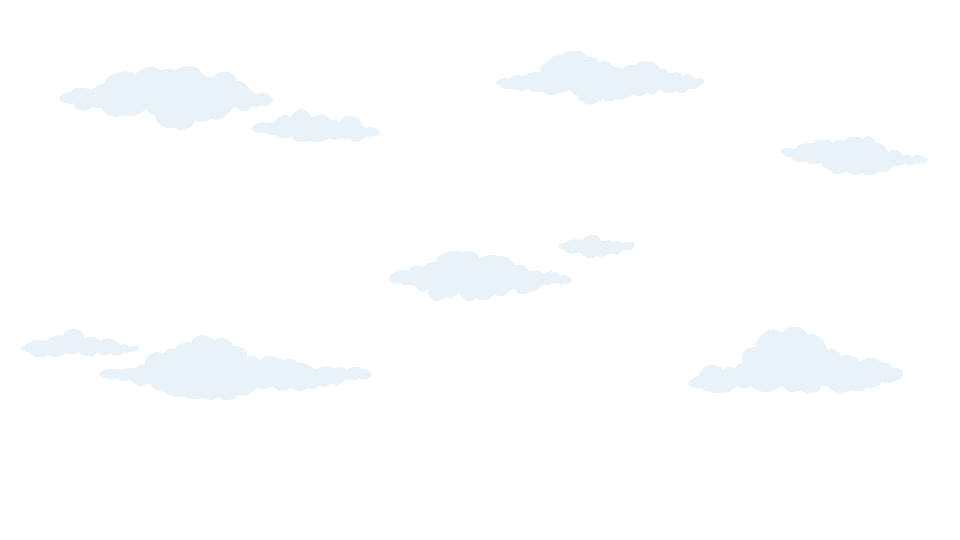
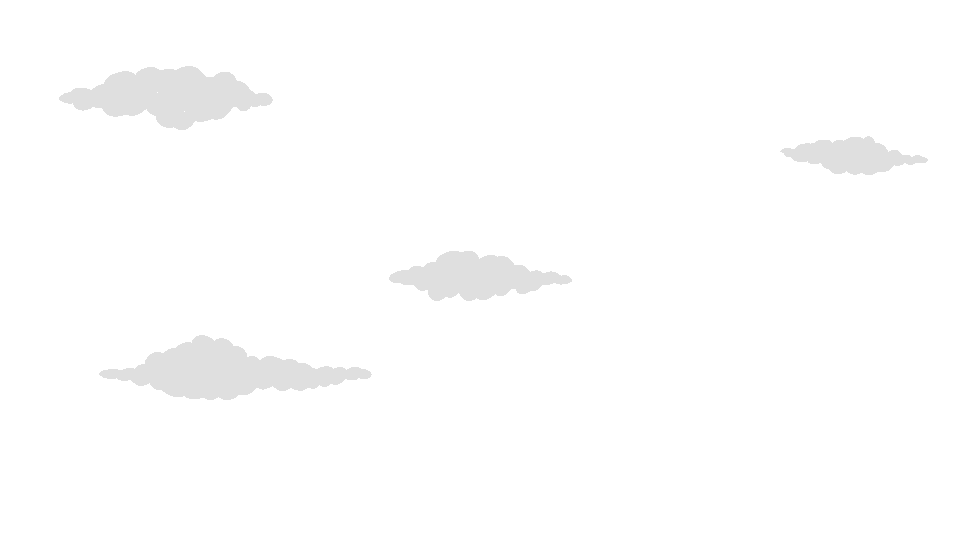
修改整体画风

diff --git a/src/scenes/playScene.js b/src/scenes/playScene.js
@@ -1,22 +1,22 @@
 import Phaser from 'phaser';
-import stone1 from '../assets/mapOne/objects/stones/1.png'
-import stone2 from '../assets/mapOne/objects/stones/2.png'
-import stone3 from '../assets/mapOne/objects/stones/3.png'
-import stone4 from '../assets/mapOne/objects/stones/4.png'
-import stone5 from '../assets/mapOne/objects/stones/5.png'
-import stone6 from '../assets/mapOne/objects/stones/6.png'
-import bushes1 from '../assets/mapOne/objects/bushes/1.png'
-import bushes2 from '../assets/mapOne/objects/bushes/2.png'
-import bushes3 from '../assets/mapOne/objects/bushes/3.png'
-import bushes4 from '../assets/mapOne/objects/bushes/4.png'
-import bushes5 from '../assets/mapOne/objects/bushes/5.png'
-import bushes6 from '../assets/mapOne/objects/bushes/6.png'
-import tree1 from '../assets/mapOne/objects/trees/1.png'
-import tree2 from '../assets/mapOne/objects/trees/2.png'
-import tree3 from '../assets/mapOne/objects/trees/3.png'
-import tree4 from '../assets/mapOne/objects/trees/4.png'
-import tree5 from '../assets/mapOne/objects/trees/5.png'
-import tree6 from '../assets/mapOne/objects/trees/6.png'
+import stone1 from '../assets/mapOne/objects/stones/1_gray.png'
+import stone2 from '../assets/mapOne/objects/stones/2_gray.png'
+import stone3 from '../assets/mapOne/objects/stones/3_gray.png'
+import stone4 from '../assets/mapOne/objects/stones/4_gray.png'
+import stone5 from '../assets/mapOne/objects/stones/5_gray.png'
+import stone6 from '../assets/mapOne/objects/stones/6_gray.png'
+import bushes1 from '../assets/mapOne/objects/bushes/1_gray.png'
+import bushes2 from '../assets/mapOne/objects/bushes/2_gray.png'
+import bushes3 from '../assets/mapOne/objects/bushes/3_gray.png'
+import bushes4 from '../assets/mapOne/objects/bushes/4_gray.png'
+import bushes5 from '../assets/mapOne/objects/bushes/5_gray.png'
+import bushes6 from '../assets/mapOne/objects/bushes/6_gray.png'
+import tree1 from '../assets/mapOne/objects/trees/1_gray.png'
+import tree2 from '../assets/mapOne/objects/trees/2_gray.png'
+import tree3 from '../assets/mapOne/objects/trees/3_gray.png'
+import tree4 from '../assets/mapOne/objects/trees/4_gray.png'
+import tree5 from '../assets/mapOne/objects/trees/5_gray.png'
+import tree6 from '../assets/mapOne/objects/trees/6_gray.png'
 import doorOpen from '../assets/mapOne/objects/doorOpen.png'
 import purpleArray from '../assets/mapOne/objects/purpleArray.png'
 import purpleDiamond from '../assets/mapOne/objects/purpleDiamond.png'
@@ -24,6 +24,13 @@ import zombie from '../assets/mapOne/objects/girl1.png'
 
 import knife1_1 from '../assets/weapons/knife1_1.png'
 import staff1_1 from '../assets/weapons/staff1_1.png'
+
+import grassPlatformLeft from "../assets/mapOne/tiles/left.png";
+import grassPlatformMiddle from "../assets/mapOne/tiles/mid.png";
+import grassPlatformRight from "../assets/mapOne/tiles/right.png";
+import sky from "../assets/mapOne/background/Background_gray1.png";
+import houseOne from "../assets/mapOne/objects/house/1_gray.png";
+import cloudSmall from '../assets/mapOne/background/coluds_small.png'
 
 //路面组
 var roadGroup;
@@ -133,6 +140,13 @@ export default class playScene extends Phaser.Scene
 
     preload ()
     {
+        //加载地板
+        this.load.image('sky',sky);
+        this.load.image('houseOne',houseOne);
+        this.load.image('grassPlatformLeft',grassPlatformLeft);
+        this.load.image('grassPlatformMiddle',grassPlatformMiddle);
+        this.load.image('grassPlatformRight',grassPlatformRight);
+        this.load.image('cloudSmall',cloudSmall);
         //加载石头
         this.load.image('stone1',stone1);
         this.load.image('stone2',stone2);
@@ -345,8 +359,8 @@ export default class playScene extends Phaser.Scene
      */
     createZombie() {
         var originX = 2000;
-        var zombieNums = 30;
-        var zombiesInterval = ((RoadLastXBase * RoadBaseSpacing) / zombieNums) / 3;
+        var zombieNums = 60;
+        var zombiesInterval = ((RoadLastXBase * Phaser.Math.Between(400,600)) / zombieNums) / 3;
         for (let i = 0; i < zombieNums; i++) {
             var x = Phaser.Math.Between(originX, originX + zombiesInterval);
             var zombie = zombies.create(x,500,'zombie').setScale(3).setSize(20,45).setDrag(2300,200);
@@ -357,6 +371,7 @@ export default class playScene extends Phaser.Scene
             // console.log(zombie)
             originX = originX + zombiesInterval;
         }
+        console.log('最后生成位置：' + originX)
     }
 
     /**
@@ -389,7 +404,7 @@ export default class playScene extends Phaser.Scene
             if (zombie.y > 1150) {
                 var purpleArray = purpleArrayGroup.getChildren()[Phaser.Math.Between(0,purpleArrayGroup.getLength() - 1)]
                 purpleArray.x = zombie.x;
-                purpleArray.y = 500;
+                purpleArray.y = 400;
                 zombie.y = 500;
                 purpleArray.anims.play('purpleArrayAnim',true)
                 // 监听动画播放完成事件
@@ -451,61 +466,72 @@ export default class playScene extends Phaser.Scene
         //基础X坐标
         RoadLastXBase = 0;
         //最后生成Y高度
-        RoadLastYBase = 1150;
+        RoadLastYBase = 1050;
         //地台高度差
         var platformHeightDifference = 100;
         //创建路面
-        roadGroup.create(RoadLastXBase,1150,'grassPlatformLeft').setSize(210,64).setOrigin(0,1).setScale(3.1).setOffset(40,-150)
+        roadGroup.create(RoadLastXBase,1050,'grassPlatformLeft').setSize(210,64).setOrigin(0,1).setScale(3.1).setOffset(40,-80)
         RoadLastXBase ++;
         for (RoadLastXBase; RoadLastXBase < 10; RoadLastXBase++) {
-            roadGroup.create(RoadLastXBase * RoadBaseSpacing,1150,'grassPlatformMiddle').setSize(210,64).setOrigin(0,1).setScale(3.1).setOffset(40,-150)
+            roadGroup.create(RoadLastXBase * RoadBaseSpacing,1050,'grassPlatformMiddle').setSize(210,64).setOrigin(0,1).setScale(3.1).setOffset(40,-80)
         }
-        roadGroup.create((RoadLastXBase) * RoadBaseSpacing,1150,'grassPlatformRight').setSize(210,64).setOrigin(0,1).setScale(3.1).setOffset(40,-150)
+        roadGroup.create((RoadLastXBase) * RoadBaseSpacing,1050,'grassPlatformRight').setSize(210,64).setOrigin(0,1).setScale(3.1).setOffset(40,-80)
         RoadLastXBase = RoadLastXBase + 1;
         for (let i = 1; i < 50; i++) {
             //随机Y轴值
             var y = 0;
             while ((RoadLastYBase - y) > platformHeightDifference) {
-                y = Phaser.Math.Between(500,1150);
+                y = Phaser.Math.Between(500,1050);
             }
             RoadLastYBase = y;
             //多长的路
             var howLong = Phaser.Math.Between(1,10);
-            roadGroup.create(RoadLastXBase * RoadBaseSpacing,y,'grassPlatformLeft').setSize(210,64).setOrigin(0,1).setScale(3.1).setOffset(40,-150)
+            roadGroup.create(RoadLastXBase * RoadBaseSpacing,y,'grassPlatformLeft').setSize(210,64).setOrigin(0,1).setScale(3.1).setOffset(40,-80)
             for (let j = RoadLastXBase + 1; j < howLong + RoadLastXBase; j++) {
-                roadGroup.create(j * RoadBaseSpacing,y,'grassPlatformMiddle').setSize(210,64).setOrigin(0,1).setScale(3.1).setOffset(40,-150)
+                roadGroup.create(j * RoadBaseSpacing,y,'grassPlatformMiddle').setSize(210,64).setOrigin(0,1).setScale(3.1).setOffset(40,-80)
             }
-            roadGroup.create((howLong + RoadLastXBase)* RoadBaseSpacing,y,'grassPlatformRight').setSize(210,64).setOrigin(0,1).setScale(3.1).setOffset(40,-150)
+            roadGroup.create((howLong + RoadLastXBase)* RoadBaseSpacing,y,'grassPlatformRight').setSize(210,64).setOrigin(0,1).setScale(3.1).setOffset(40,-80)
             RoadLastXBase = RoadLastXBase + howLong + 1;
+            //创建云朵
+            if (Phaser.Math.Between(0,1) === 0) {
+                var cloudName = 'cloudSmall';
+                var cloudY = Phaser.Math.Between(50,500);
+                var cloudScale = 2;
+                //创建树
+                sceneryObj.create(RoadLastXBase * (RoadBaseSpacing + 100 )
+                    ,cloudY
+                    ,cloudName)
+                    .setScale(cloudScale)
+            }
             //创建树
             if (howLong >= 2 && Phaser.Math.Between(0,1) === 0) {
                 var treesName ;
-                var treesY = RoadLastYBase - 240;
+                var treesY = RoadLastYBase - 180;
                 var treesScale = 6;
                 switch (Phaser.Math.Between(1,6)) {
                     case 1:
                         treesName = 'tree1';
-                        treesY = RoadLastYBase - 530;
+                        treesY = RoadLastYBase - 460;
                         treesScale = 3;break;
                     case 2:
                         treesName = 'tree2';
-                        treesY = RoadLastYBase - 490;
+                        treesY = RoadLastYBase - 420;
                         treesScale = 5;break;
                     case 3:
                         treesName = 'tree3';
-                        treesY = RoadLastYBase - 550;
+                        treesY = RoadLastYBase - 480;
                         treesScale = 6;break;
                     case 4:
                         treesName = 'tree4';
-                        treesY = RoadLastYBase - 540;
+                        treesY = RoadLastYBase - 470;
                         treesScale = 3;break;
                     case 5:
                         treesName = 'tree5'
-                        treesY = RoadLastYBase - 460
+                        treesY = RoadLastYBase - 390
                         treesScale = 4;break;
                     case 6:
                         treesName = 'tree6';
-                        treesY = RoadLastYBase - 460;
+                        treesY = RoadLastYBase - 390;
                         treesScale = 4
                         break;
                 }
@@ -531,30 +557,30 @@ export default class playScene extends Phaser.Scene
             //创建灌木丛
             if (howLong >= 2 && Phaser.Math.Between(0,1) === 0) {
                 var bushesName ;
-                var bushesY = RoadLastYBase - 240;
+                var bushesY = RoadLastYBase - 180;
                 var bushesScale = 6;
                 switch (Phaser.Math.Between(1,6)) {
                     case 1:
                         bushesName = 'bushes1';
-                        bushesY = RoadLastYBase - 270;break;
+                        bushesY = RoadLastYBase - 200;break;
                     case 2:
                         bushesName = 'bushes2';
-                        bushesY = RoadLastYBase - 230;
+                        bushesY = RoadLastYBase - 160;
                         bushesScale = 4;break;
                     case 3:
                         bushesName = 'bushes3';
-                        bushesY = RoadLastYBase - 205;
+                        bushesY = RoadLastYBase - 135;
                         bushesScale = 6;break;
                     case 4:
                         bushesName = 'bushes4';
-                        bushesY = RoadLastYBase - 275;
+                        bushesY = RoadLastYBase - 205;
                         bushesScale = 5;break;
                     case 5:
                         bushesName = 'bushes5'
-                        bushesY = RoadLastYBase - 310;break;
+                        bushesY = RoadLastYBase - 240;break;
                     case 6:
                         bushesName = 'bushes6';
-                        bushesY = RoadLastYBase - 250;
+                        bushesY = RoadLastYBase - 190;
                         break;
                 }
                 //差值
@@ -577,37 +603,37 @@ export default class playScene extends Phaser.Scene
             //生成房子背景
             if (howLong >= 6 && Phaser.Math.Between(0,1) === 0) {
                 sceneryObj.create(RoadLastXBase * RoadBaseSpacing - Phaser.Math.Between(2 * RoadBaseSpacing,5 * RoadBaseSpacing)
-                    ,y - 500
+                    ,y - 440
                     ,'houseOne')
                     .setScale(6)
             }
             //创建石头
             if (howLong >= 4 && Phaser.Math.Between(0,1) === 0) {
                 var stoneName ;
-                var stoneY = RoadLastYBase - 240;
+                var stoneY = RoadLastYBase - 180;
                 var stoneScale = 6;
                 switch (Phaser.Math.Between(1,6)) {
                     case 1:
                         stoneName = 'stone1';
-                        stoneY = RoadLastYBase - 258;break;
+                        stoneY = RoadLastYBase - 190;break;
                     case 2:
                         stoneName = 'stone2';
-                        stoneY = RoadLastYBase - 295;
+                        stoneY = RoadLastYBase - 225;
                         stoneScale = 4;break;
                     case 3:
                         stoneName = 'stone3';
-                        stoneY = RoadLastYBase - 240;
+                        stoneY = RoadLastYBase - 170;
                         stoneScale = 5;break;
                     case 4:
                         stoneName = 'stone4';
-                        stoneY = RoadLastYBase - 280;
+                        stoneY = RoadLastYBase - 210;
                         stoneScale = 5;break;
                     case 5:
                         stoneName = 'stone5'
-                        stoneY = RoadLastYBase - 260;break;
+                        stoneY = RoadLastYBase - 190;break;
                     case 6:
                         stoneName = 'stone6'
-                        stoneY = RoadLastYBase - 260;break;
+                        stoneY = RoadLastYBase - 190;break;
                 }
                 //差值
                 var stoneDifference;

diff --git a/src/index.js b/src/index.js
@@ -1,14 +1,7 @@
 import Phaser from 'phaser';
 import logo from './assets/YansGames.png'
-import roadSix from './assets/mapOne/background/Layers/6.png'
-import roadEight from './assets/mapOne/background/Layers/8.png'
 import player from './assets/player.png'
 import bullets from './assets/laserSprites/26.png'
-import sky from './assets/mapOne/background/Background.png'
-import grassPlatformLeft from './assets/mapOne/tiles/Ground_grass_0020_tile.png'
-import grassPlatformMiddle from './assets/mapOne/tiles/Ground_grass_0024_tile.png'
-import grassPlatformRight from './assets/mapOne/tiles/Ground_grass_0016_tile.png'
-import houseOne from './assets/mapOne/objects/house/1.png'
 import redHealth from './assets/states/health/redHealth.jpg'
 import greenHealth from './assets/states/health/greenHealth.jpg'
 import playScene from './scenes/playScene'
@@ -24,13 +17,6 @@ class MyGame extends Phaser.Scene
     preload ()
     {
         //加载图
-        this.load.image('roadSix',roadSix);
-        this.load.image('roadEight',roadEight);
-        this.load.image('sky',sky);
-        this.load.image('grassPlatformLeft',grassPlatformLeft);
-        this.load.image('grassPlatformMiddle',grassPlatformMiddle);
-        this.load.image('grassPlatformRight',grassPlatformRight);
-        this.load.image('houseOne',houseOne);
         this.load.image('bullets',bullets);
         //加载精灵
         this.load.spritesheet('logo',logo,{frameWidth: 896 , frameHeight: 896})
